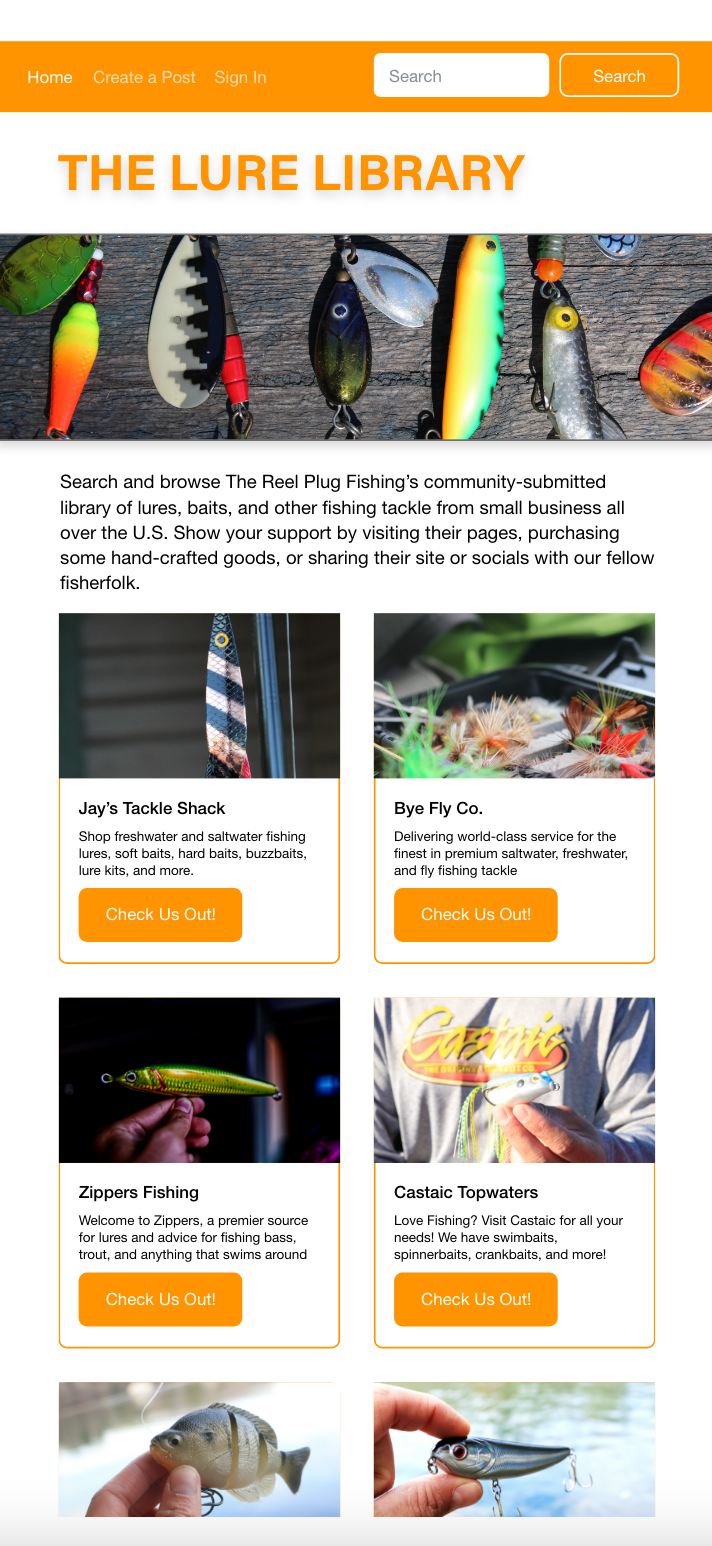
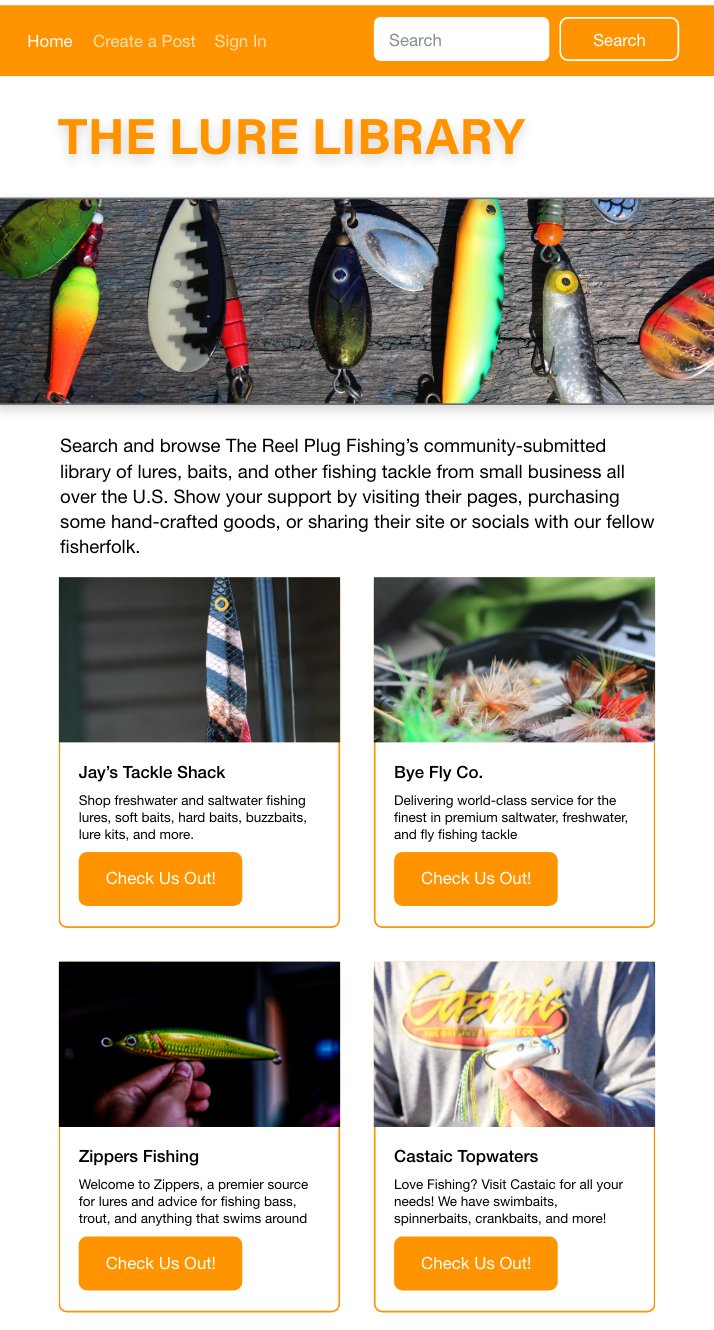
Home page Lure Library image update

diff --git a/index.html b/index.html
@@ -94,7 +94,7 @@
     </div>
     
     <div class="grid-item">
-      <img class="img-responsive" alt="" src="./assets/images/lure-library-02.png">
+      <img class="img-responsive" alt="" src="./assets/images/lure-library-01.png">
       <a href="./project.html" class="project-description">
         <div class="project-text-holder">
           <div class="project-text-inner">
